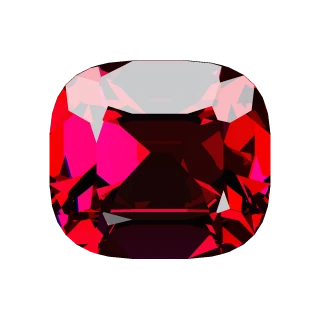
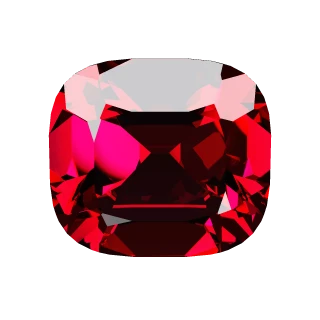
宝石の絵：ファイアを波長ごとに計算し、ダイヤの白飛び・アレキの暗さ・カボションの裏を直す
- 透明な石は R・G・B の 3 本ではなく、波長ごとに 6 本の光線を出す（屈折率はコーシーの式。
  点ごとに波長をずらすので、細かく描くほど色がなめらかにつながる）。
  ファイアが面ごとの単色の塊になっていたのを直すため
- 透明な石は近くから見る向き（PERSP）で描く。面の中で見る向きが変わり、ファイアの中で色が移ろう。
  表の面で跳ね返る光だけは遠くからの向きのまま（テーブルに照明が大きく映り込まないように）
- 分散の強いダイヤとチタナイトは、小さな強い光をさらに小さく鋭くした照明（ENV_SPARK。明るさの合計は同じ）。
  ほかの石は今までの照明のまま
- ダイヤ：明るさ 1.05 → 0.6・ファイア 0.7 → 2 にして白飛びを抑え、白と黒の差とファイアが見えるように
- アレキサンドライト：横向きの色（多色性）で緑が吸われて真っ黒に見えていたので外し、色を少し澄ませた
- カボションを裏から見ると何も描かれなかったので、平らな底の面を描く。オパールの遊色は裏からも光る
- 鑑賞モードの明るさの下限を 0.3 に（ダイヤの初期値が 0.6 のため）
- 宝石のアイコンを書き出し直した（透明な石。カボションと不透明な石は変わらない）
- SW の版数を v138 に

Claude-Session: https://claude.ai/code/session_01TxinNWcW1GdX7YjeGdTSna

Changed region(s): [[0.125, 0.1562, 0.875, 0.8125]]

diff --git a/js/gem-gl.js b/js/gem-gl.js
@@ -10,16 +10,16 @@
 // 見た目の数値。mode：trace（透明）・cab（カボション）・facet（不透明なカット面）・tumble（丸く磨いた石）
 // t：長さ 1 進んだときに残る光の割合（RGB）、d：濃さ、pleo：横向きに進むときの色（多色性）、bi：バイカラーのもう一方の色
 // fog・fogD：乳白（中で散る光の色と濃さ）、kind：シェーダーの石の番号、ri：屈折率（不透明な石）
-// exp・fire：その石だけの明るさ・ファイア（省くと 1.2・1.6）、spin0：置く向き（度。旧アイコンの向きに合わせる）
+// exp・fire：その石だけの明るさ・ファイア（省くと 1.2・1.6）、spin0：置く向き（度。旧アイコンの向きに合わせる）、spark：小さく鋭い照明（分散の強い石）
 const T = (cut, ior, disp, t, d, ex) => ({ mode: 'trace', cut, ior, disp, t, d, ...ex });
 const C = (cut, kind, ri) => ({ mode: 'cab', cut, kind, ri });
 export const GEM_LOOK = {
-  diamond: T('brilliant', 2.42, 0.044, [0.98, 0.985, 1.0], 1, { exp: 1.05, fire: 0.7 }),
+  diamond: T('brilliant', 2.42, 0.044, [0.98, 0.985, 1.0], 1, { exp: 0.6, fire: 2, spark: true }),
   topaz: T('brilliant', 1.62, 0.014, [1.0, 0.7, 0.12], 1.0),
   ruby: T('oval', 1.77, 0.018, [0.95, 0.07, 0.2], 1.2),
   sapphire: T('oval', 1.77, 0.018, [0.12, 0.25, 0.95], 1.2),
   garnet: T('cushion', 1.76, 0.027, [0.82, 0.04, 0.16], 1.25),
-  alexandrite: T('cushion', 1.75, 0.015, [0.12, 0.66, 0.42], 1.5, { pleo: [0.72, 0.16, 0.32] }),
+  alexandrite: T('cushion', 1.75, 0.015, [0.2, 0.86, 0.6], 0.9, { exp: 1.5 }),
   redberyl: T('cushion', 1.57, 0.014, [0.95, 0.12, 0.4], 1.0),
   emerald: T('step', 1.58, 0.014, [0.1, 0.8, 0.38], 1.1),
   aquamarine: T('step', 1.58, 0.014, [0.55, 0.95, 0.97], 1.0),
@@ -28,7 +28,7 @@ export const GEM_LOOK = {
   iolite: T('pear', 1.54, 0.017, [0.32, 0.24, 0.95], 1.7, { pleo: [0.55, 0.48, 0.85], spin0: 180 }),
   kyanite: T('baguette', 1.72, 0.02, [0.12, 0.32, 0.95], 1.1),
   tourmaline: T('baguette', 1.63, 0.017, [1.0, 0.3, 0.58], 1.0, { bi: [0.25, 0.85, 0.4] }),
-  titanite: T('trillion', 1.95, 0.051, [0.8, 0.88, 0.2], 0.9, { spin0: 180 }),
+  titanite: T('trillion', 1.95, 0.051, [0.8, 0.88, 0.2], 0.9, { spin0: 180, spark: true }),
   milkyquartz: T('point', 1.544, 0.013, [0.97, 0.965, 0.99], 0.4, { fogD: 3.4, fog: [0.92, 0.9, 1.05], spin0: -22 }),
   opal: C('cabOval', 0, 1.45),
   moonstone: C('cabOval', 1, 1.52),
@@ -49,6 +49,10 @@ const MODE = { trace: 0, cab: 1, facet: 2, tumble: 3 };
 // 画面の端から端までの広さ（宝石の半径が 1）。アイコンと、その場で描く宝石で同じにする
 const SPAN = 1.36;
 const GLINT = 0.6;
+// 透明な石の光線を出す波長の数（多いほどファイアの色がなめらかにつながる）
+const NW = 6;
+// 透明な石を見る近さ（目までの距離の逆数。宝石の半径が 1）
+const PERSP = 0.12;
 
 // 書き出した画像の場所
 export const gemImage = (id) => `img/gems/${id}.webp`;
@@ -156,6 +160,8 @@ function lightsOf(list, soft) {
 }
 const ring = (n, el, r, I, off = 0) => Array.from({ length: n }, (_, i) => ({ az: off + (i * 360) / n, el, r, I }));
 const ENV_FACET = { L: lightsOf([...ring(6, 42, 13, 5, 15), ...ring(12, 68, 2.6, 30, 7), ...ring(4, 18, 9, 3, 40)], 1.3), sky0: 0.016, sky1: 0.04, floor: 0.035, head: 16 };
+// 分散の強い石（spark）：小さな強い光をもっと小さく鋭くする（明るさの合計は同じ）。光が波長ごとに分かれて、ファイアが虹色に見える
+const ENV_SPARK = { ...ENV_FACET, L: lightsOf([...ring(6, 42, 13, 5, 15), ...ring(12, 68, 0.6, 565, 7), ...ring(4, 18, 9, 3, 40)], 1.3) };
 const ENV_CAB = { L: lightsOf([{ az: 135, el: 50, r: 15, I: 5.5 }, { az: 35, el: 36, r: 9, I: 3 }, { az: 250, el: 28, r: 8, I: 2.4 }, { az: 200, el: 18, r: 10, I: 1.2 }], 1.7), sky0: 0.03, sky1: 0.08, floor: 0.015, head: 8 };
 
 // ---------------------------------------------------------------- シェーダー
@@ -167,6 +173,7 @@ out vec4 o;
 uniform vec2 uRes; uniform float uSpan, uExp; uniform mat3 uR; uniform int uMode, uKind, uSS;
 uniform vec4 uP[112]; uniform int uN;
 uniform vec3 uIor, uSig, uSig2, uPleo; uniform float uPleoOn, uBiOn, uBiAt;
+uniform vec2 uCau; uniform int uNW; uniform float uPersp;
 uniform vec3 uAbc; uniform float uFogD; uniform vec3 uFogL;
 uniform vec4 uL[24]; uniform vec2 uLc[24]; uniform int uNL; uniform vec4 uEnv; uniform vec2 uHead;
 
@@ -196,42 +203,47 @@ vec3 vor3(vec3 x){ vec3 i = floor(x); float d1 = 9., d2 = 9., id = 0.;
   return vec3(d1, d2, id); }
 vec3 spectral(float h){ h = fract(h); return clamp(vec3(abs(h * 6. - 3.) - 1., 2. - abs(h * 6. - 2.), 2. - abs(h * 6. - 4.)), 0., 1.); }
 
-// 1 つの色の成分の光線：外から入り、中で反射を繰り返して、出た光を足す
-float trace(vec3 ro, vec3 rd, float ior, float sig, float sig2, float pleo, float fogL, out bool hit){
+// 1 つの波長の光線：外から入り、中で反射を繰り返して、出た光を足す（色の吸収は RGB でまとめて計算する）
+vec3 trace(vec3 ro, vec3 rd, vec3 rr, float ior, out bool hit){
   float tin = -1e9, tout = 1e9; int ni = -1;
   for (int i = 0; i < 112; i++) { if (i >= uN) break; vec4 p = uP[i]; float dn = dot(p.xyz, rd), dist = p.w - dot(p.xyz, ro);
-    if (abs(dn) < 1e-9) { if (dist < 0.) { hit = false; return 0.; } continue; }
+    if (abs(dn) < 1e-9) { if (dist < 0.) { hit = false; return vec3(0); } continue; }
     float t = dist / dn; if (dn < 0.) { if (t > tin) { tin = t; ni = i; } } else tout = min(tout, t); }
-  if (tin > tout || ni < 0) { hit = false; return 0.; }
+  if (tin > tout || ni < 0) { hit = false; return vec3(0); }
   hit = true;
   vec3 p = ro + rd * tin, n = uP[ni].xyz; float ci = -dot(n, rd), F = fres(ci, ior);
-  float outv = F * env(uR * (rd + 2. * ci * n));
+  vec3 outv = vec3(F * env(uR * (rr + 2. * dot(-n, rr) * n)));
   float k = 1. / ior, ct = sqrt(max(0., 1. - k * k * (1. - ci * ci)));
-  vec3 v = k * rd + (k * ci - ct) * n; float T = 1. - F;
+  vec3 v = k * rd + (k * ci - ct) * n; vec3 T = vec3(1. - F);
   for (int b = 0; b < 8; b++) {
-    if (T < .004) break;
+    if (max(T.x, max(T.y, T.z)) < .004) break;
     float tm = 1e9; int ei = -1;
     for (int i = 0; i < 112; i++) { if (i >= uN) break; vec4 q = uP[i]; float dn = dot(q.xyz, v); if (dn <= 1e-9) continue; float t = (q.w - dot(q.xyz, p)) / dn; if (t < tm) { tm = t; ei = i; } }
     if (ei < 0) break;
-    float s = sig;
-    if (uPleoOn > 0.) { float w = abs(v.z); s = sig * w + pleo * (1. - w); }
-    if (uBiOn > 0.) { vec3 m = p + v * tm * .5; s = mix(sig, sig2, clamp((m.x - uBiAt) / .18 + .5, 0., 1.)); }
+    vec3 s = uSig;
+    if (uPleoOn > 0.) { float w = abs(v.z); s = uSig * w + uPleo * (1. - w); }
+    if (uBiOn > 0.) { vec3 m = p + v * tm * .5; s = mix(uSig, uSig2, clamp((m.x - uBiAt) / .18 + .5, 0., 1.)); }
     // 乳白：中の細かな粒で光が散る（根元ほど濃く、先は澄む）。散った光は上からの照明で少し明るい
-    if (uFogD > 0.) { vec3 m = p + v * tm * .5; float tr = exp(-uFogD * mix(1., .25, smoothstep(-.7, .95, m.y)) * (.55 + 1.1 * vnoise3(m * 3.2 + 5.)) * tm); outv += T * (1. - tr) * fogL * (.7 + .3 * (uR * m).y); T *= tr; }
+    if (uFogD > 0.) { vec3 m = p + v * tm * .5; float tr = exp(-uFogD * mix(1., .25, smoothstep(-.7, .95, m.y)) * (.55 + 1.1 * vnoise3(m * 3.2 + 5.)) * tm); outv += T * (1. - tr) * uFogL * (.7 + .3 * (uR * m).y); T *= tr; }
     T *= exp(-s * tm); p += v * tm; n = uP[ei].xyz; ci = dot(n, v); F = fres(ci, 1. / ior);
     if (F < 1.) { k = ior; ct = sqrt(max(0., 1. - k * k * (1. - ci * ci))); outv += T * (1. - F) * env(uR * (k * v + (ct - k * ci) * n)); T *= F; }
     v -= 2. * ci * n; p -= n * 1e-5;
   }
   return outv + T * .02;
 }
+// 波長（0＝赤の端 700nm 〜 1＝紫の端 400nm）の色の重み（RGB）。足した重みで割って、全部の波長で白になるようにする
+vec3 wlRGB(float s){
+  float l = 700. - 300. * s;
+  return vec3(exp(-pow((l - 600.) / 42., 2.)) + .3 * exp(-pow((l - 425.) / 22., 2.)), exp(-pow((l - 545.) / 45., 2.)), exp(-pow((l - 452.) / 30., 2.)));
+}
 
 // 中の層（向き m、物体の座標）が照明を返す強さ。光の向きと見る向きの中間が m に近いほど強い。
-// 画面の座標で比べるので、石が傾くと光る場所と色が変わる。al は向きの合い具合（重み付きの平均）
+// 画面の座標で比べるので、石が傾くと光る場所と色が変わる。層は表と裏のどちらからも光を返す（裏から見たとき）。al は向きの合い具合（重み付きの平均）
 float layerFlash(vec3 m, float k, out float al){
   vec3 mw = normalize(uR * m); float s = 0., ws = 0., as = 0.;
   for (int i = 0; i < 24; i++) {
     if (i >= uNL) break;
-    float c = max(dot(normalize(uL[i].xyz + vec3(0, 0, 1)), mw), 0.), w = uL[i].w * (1. - uLc[i].x);
+    float c = abs(dot(normalize(uL[i].xyz + vec3(0, 0, 1)), mw)), w = uL[i].w * (1. - uLc[i].x);
     s += w * pow(c, k); ws += w; as += w * c;
   }
   al = as / max(ws, 1e-4);
@@ -323,8 +335,15 @@ vec4 cab(vec3 ro, vec3 rd){
   vec3 a2 = uAbc * uAbc;
   float qa = dot(rd * rd, 1. / a2), qb = 2. * dot(ro * rd, 1. / a2), qc = dot(ro * ro, 1. / a2) - 1.;
   float disc = qb * qb - 4. * qa * qc; if (disc < 0.) return vec4(0);
-  float t = (-qb - sqrt(disc)) / (2. * qa); vec3 h = ro + rd * t; if (h.z < 0.) return vec4(0);
-  vec3 n = normalize(h / a2); float cv = -dot(n, rd); vec3 r = rd + 2. * cv * n;
+  float t = (-qb - sqrt(disc)) / (2. * qa); vec3 h = ro + rd * t, n;
+  if (h.z < 0.) {
+    // 裏から見たとき：平らに磨いた底の面
+    if (rd.z <= 0.) return vec4(0);
+    h = ro + rd * (-ro.z / rd.z);
+    if (dot(h.xy * h.xy, 1. / a2.xy) > 1.) return vec4(0);
+    n = vec3(0, 0, -1);
+  } else n = normalize(h / a2);
+  float cv = -dot(n, rd); vec3 r = rd + 2. * cv * n;
   vec3 alb, emit; float tr; stone(h.xy, n, r, alb, emit, tr);
   float F = .04 + .96 * pow(1. - clamp(cv, 0., 1.), 5.);
   float spec = env(uR * r), E = irr(uR * n);
@@ -421,9 +440,22 @@ void main(){
     vec3 ro = Rt * vec3(uv, 10.), rd = Rt * vec3(0, 0, -1);
     vec3 c; bool hit;
     if (uMode == 0) {
-      c.r = trace(ro, rd, uIor.x, uSig.x, uSig2.x, uPleo.x, uFogL.x, hit); if (!hit) continue;
-      c.g = trace(ro, rd, uIor.y, uSig.y, uSig2.y, uPleo.y, uFogL.y, hit);
-      c.b = trace(ro, rd, uIor.z, uSig.z, uSig2.z, uPleo.z, uFogL.z, hit);
+      // 透明な石は近くから見る（目の位置から広がる光線）。面ごとに見る向きが少しずつ変わり、ファイアの中で色が移ろう
+      // 表の面で跳ね返る光だけは、遠くから見た向きで求める（テーブルに照明が大きく映り込まないように）
+      vec3 rr = rd;
+      if (uPersp > 0.) { ro = Rt * vec3(0, 0, 1. / uPersp); rd = Rt * normalize(vec3(uv * uPersp, -1.)); }
+      // 波長ごとに屈折率が少し違う（コーシーの式）ので、出ていく向きがずれて虹色に分かれる（ファイア）。
+      // 点ごとに波長を少しずらして、細かく描くほど色がなめらかにつながる
+      c = vec3(0); vec3 ws = vec3(0); float j = (float(sy * uSS + sx) + .5) / float(uSS * uSS);
+      for (int w = 0; w < 16; w++) {
+        if (w >= uNW) break;
+        float s = (float(w) + j) / float(uNW), lm = (700. - 300. * s) * .001;
+        vec3 wc = wlRGB(s);
+        c += trace(ro, rd, rr, uCau.x + uCau.y / (lm * lm), hit) * wc; ws += wc;
+        if (!hit) break;
+      }
+      if (!hit) continue;
+      c /= ws;
     } else { vec4 r = uMode == 1 ? cab(ro, rd) : uMode == 2 ? facet(ro, rd) : tumble(ro, rd); if (r.a < .5) continue; c = r.rgb; }
     acc += srgb(aces(c * uExp)); cov += 1.;
   }
@@ -458,7 +490,7 @@ void main(){
 }`;
 
 // ---------------------------------------------------------------- 描く道具（キャンバス 1 枚に 1 つ）
-const UNIFORMS = ['uRes', 'uSpan', 'uExp', 'uR', 'uMode', 'uKind', 'uSS', 'uP', 'uN', 'uIor', 'uSig', 'uSig2', 'uPleo', 'uPleoOn', 'uBiOn', 'uBiAt', 'uAbc', 'uL', 'uLc', 'uNL', 'uEnv', 'uHead', 'uFogD', 'uFogL'];
+const UNIFORMS = ['uRes', 'uSpan', 'uExp', 'uR', 'uMode', 'uKind', 'uSS', 'uP', 'uN', 'uIor', 'uCau', 'uNW', 'uPersp', 'uSig', 'uSig2', 'uPleo', 'uPleoOn', 'uBiOn', 'uBiAt', 'uAbc', 'uL', 'uLc', 'uNL', 'uEnv', 'uHead', 'uFogD', 'uFogL'];
 
 function createRenderer(canvas) {
   const gl = canvas.getContext('webgl2', { premultipliedAlpha: true, antialias: false, alpha: true, depth: false, stencil: false, powerPreference: 'low-power' });
@@ -502,7 +534,7 @@ function createRenderer(canvas) {
   const load = (id) => {
     const g = GEM_LOOK[id] || GEM_LOOK.ruby;
     gl.useProgram(prog);
-    const E = g.mode === 'cab' || g.mode === 'tumble' ? ENV_CAB : ENV_FACET;
+    const E = g.mode === 'cab' || g.mode === 'tumble' ? ENV_CAB : g.spark ? ENV_SPARK : ENV_FACET;
     const L = new Float32Array(24 * 4), Lc = new Float32Array(24 * 2);
     E.L.forEach((l, i) => { L.set([...l.dir, l.I], i * 4); Lc.set([l.c0, l.c1], i * 2); });
     gl.uniform4fv(uni.uL, L);
@@ -529,8 +561,7 @@ function createRenderer(canvas) {
       gl.uniform1f(uni.uBiAt, 0.25);
       gl.uniform3fv(uni.uPleo, g.pleo ? sigmaOf(g.pleo, g.d) : s);
       gl.uniform1f(uni.uPleoOn, g.pleo ? 1 : 0);
-      const d = g.disp * (g.fire == null ? 1.6 : g.fire);
-      gl.uniform3f(uni.uIor, g.ior - d * 0.42, g.ior, g.ior + d * 0.58);
+      gl.uniform2fv(uni.uCau, cauchy(g, g.fire == null ? 1.6 : g.fire));
     } else {
       gl.uniform3fv(uni.uAbc, g.cut === 'cab' ? [0.92, 0.92, 0.62] : [1.0, 0.76, 0.62]);
       gl.uniform3f(uni.uIor, g.ri, g.ri, g.ri);
@@ -564,8 +595,9 @@ function createRenderer(canvas) {
     const glint = o && o.glint != null ? o.glint : GLINT;
     gl.useProgram(prog);
     if (clear) {
-      const d = g.disp * (o && o.fire != null ? o.fire : g.fire == null ? 1.6 : g.fire);
-      gl.uniform3f(uni.uIor, g.ior - d * 0.42, g.ior, g.ior + d * 0.58);
+      gl.uniform2fv(uni.uCau, cauchy(g, o && o.fire != null ? o.fire : g.fire == null ? 1.6 : g.fire));
+      gl.uniform1i(uni.uNW, o && o.nw ? o.nw : NW);
+      gl.uniform1f(uni.uPersp, o && o.persp != null ? o.persp : PERSP);
     }
     gl.bindFramebuffer(gl.FRAMEBUFFER, fbo);
     gl.viewport(0, 0, W, H);
@@ -593,6 +625,13 @@ function createRenderer(canvas) {
     gl.drawArrays(gl.TRIANGLES, 0, 3);
   };
   return { gl, load, draw };
+}
+
+// 屈折率の波長による違い（コーシーの式 n = A + B / λ²、λ は µm）。disp は B 線（686.7nm）と G 線（430.8nm）の差で、
+// それに fire を掛けて強める。ior は黄の光（589nm）あたりの値
+function cauchy(g, fire) {
+  const d = g.disp * fire, B = d / (1 / 0.4308 ** 2 - 1 / 0.6867 ** 2);
+  return [g.ior - B / 0.589 ** 2, B];
 }
 
 // 縦軸まわりに spin、そのあと手前へ tilt（物体 → 画面）。列優先で渡す
@@ -722,14 +761,15 @@ export const liveGemOk = () => !broken;
 
 // ---------------------------------------------------------------- 画像の書き出し（tools/gem-bake.html から使う）
 let baker = null;
-export function bakeGem(id, size, rockT = 0, rockS = 0) {
+// o は draw と同じ（確かめるための比べる画像用。省くとアイコンと同じ）
+export function bakeGem(id, size, rockT = 0, rockS = 0, o = null) {
   if (!baker) {
     const canvas = document.createElement('canvas');
     baker = createRenderer(canvas);
     baker.canvas = canvas;
   }
   baker.load(id);
-  baker.draw(size * 2, rockT, rockS, 2);
+  baker.draw(size * 2, rockT, rockS, 2, o);
   const c = document.createElement('canvas');
   c.width = c.height = size;
   const x = c.getContext('2d');

diff --git a/sw.js b/sw.js
@@ -1,5 +1,5 @@
 // オフラインでも あそべるように キャッシュする
-const CACHE = 'jewel-survivor-v137';
+const CACHE = 'jewel-survivor-v138';
 const ASSETS = [
   './', './index.html', './css/style.css', './manifest.webmanifest',
   './js/main.js', './js/game.js', './js/weapons.js', './js/data.js', './js/render.js', './js/fx.js',

diff --git a/js/gem-view.js b/js/gem-view.js
@@ -18,7 +18,7 @@ const clamp = (v, a, b) => Math.max(a, Math.min(b, v));
 
 // スライダー：[キー, 名前, 最小, 最大, 刻み]
 const SLIDERS = [
-  ['exp', '明るさ', 0.5, 2.2, 0.05],
+  ['exp', '明るさ', 0.3, 2.2, 0.05],
   ['fire', 'ファイア', 0, 4, 0.1],
   ['glint', 'きらめき', 0, 1.5, 0.05],
 ];

diff --git a/CLAUDE.md b/CLAUDE.md
@@ -47,7 +47,7 @@
 - 大きい背景の光（.rays）を入れるスクロールする画面は `.rays-clip` で包む（スクロールの範囲が光の分だけ広がるため）。はみ出しうる画面の中央寄せは前後の余白 auto で行う（justify-content: center だと上側に届かない）。
 - コイン報酬のアイコンは coinIcon。ユーザーランクは称号の素材の見た目（`.rk-mat` ＋ `.rk-acrylic` / `.rk-glass` / `.rk-crystal`。タイトル左上のチップ・詳細の板・称号の段で共通）。
 - ステージのカード（ステージ選択・図鑑）の背景は scene-art.js の風景（`has-scene` と `--scene`。ui.js の paintScenes が、描き済みはすぐ、まだのものは 1 枚ずつ間をあけて描いて貼る）。カードを選んだときは作り直さず選択の枠だけ付け替える（markSel。作り直すと風景がちらつく）。
-- 宝石の絵は光線追跡（gem-gl.js。カットを平面の集合で作り、屈折・全反射・分散・吸収を計算する。不透明な石はカボション・カット面・丸く磨いた石の描き方。オパールの遊色とラブラドライトのひらめきは、中の層の向きと照明・見る向きから計算する layerFlash で、傾けると光る場所と色が変わる）。アイコン（gemIcon）は書き出した画像 `img/gems/<id>.webp` を返す。ホーム・ジュエル選択・コレクションの宝石のカード（持っている宝石）・オークションの競りと落札の画面（宝石の品）の宝石は mountLiveGem でその場で描く（画像の横にキャンバスを置いて入れ替える。キャンバスと WebGL はアプリで 1 つを使い回し、画像が画面から外れると止まる。WebGL が使えないときは画像のまま）。ゲーム中の弾などの小さな宝石は gem-art.js の絵（gemSprite）。見た目を変えたら tools/test/gem-bake.js で書き出し直して画像もコミットする。
+- 宝石の絵は光線追跡（gem-gl.js。カットを平面の集合で作り、屈折・全反射・分散・吸収を計算する。透明な石は波長ごとに `NW` 本の光線を出し（屈折率はコーシーの式。点ごとに波長をずらすので、細かく描くほどファイアの色がなめらかにつながる。NW を増やすとその分重い）、近くから見る向き（`PERSP`。面の中で見る向きが変わり、ファイアの中で色が移ろう。表の面で跳ね返る光だけは遠くからの向き）で描く。分散の強い石（GEM_LOOK の `spark`）は小さく鋭い照明（`ENV_SPARK`）。不透明な石はカボション（裏から見ると平らな底の面）・カット面・丸く磨いた石の描き方。オパールの遊色とラブラドライトのひらめきは、中の層の向きと照明・見る向きから計算する layerFlash で、傾けると光る場所と色が変わる）。アイコン（gemIcon）は書き出した画像 `img/gems/<id>.webp` を返す。ホーム・ジュエル選択・コレクションの宝石のカード（持っている宝石）・オークションの競りと落札の画面（宝石の品）の宝石は mountLiveGem でその場で描く（画像の横にキャンバスを置いて入れ替える。キャンバスと WebGL はアプリで 1 つを使い回し、画像が画面から外れると止まる。WebGL が使えないときは画像のまま）。ゲーム中の弾などの小さな宝石は gem-art.js の絵（gemSprite）。見た目を変えたら tools/test/gem-bake.js で書き出し直して画像もコミットする。
 - 鑑賞モード（gem-view.js）：コレクションの宝石の詳細で、持っている宝石の絵（右下の虫眼鏡）を押すと開く。ドラッグで回す（画面の縦軸・横軸まわり。はじくと惰性）・2 本指とホイールで拡大・スライダー（明るさ・ファイア（透明な石だけ）・きらめき）・ゆらす・リセット・背景の白黒。スライダーは保存しない（ユーザーの希望）。背景の白黒だけアプリを閉じるまで覚える。描画は mountLiveGem に `ctl` を渡して同じキャンバスと WebGL を借りる（ctl.frame が描く値を返し、動いていないあいだは描かず、止まった直後に 1 度だけ細かく描く）。draw の最後の引数 `o` を省いたときの見た目（アイコン・その場で描く宝石）は変えない。白い背景では仕上げのシェーダーの `uLight` で石の外のにじみを足さない（灰色の輪になるため）。閉じたら下のカードの宝石に mountLiveGem し直す。
 - ジュエル選択の宝石は額装（case-art.js。奥のベルベット `showcaseBack` は宝石の色の彩度を大きく落としてうっすら乗せる、手前の枠 `showcaseFront` は共通の 1 枚。宝石は gemIcon の img を間に置き、影の位置は `CASE_GEM` と CSS の `.sc-gem` で合わせる）。
 - 実績はメダル（ui.js の medalTier で報酬から 銅・銀・金・虹、`.medal`）。図鑑の敵はモンスターカード（`.mon`。未遭遇はシルエット、ボスは金の額縁）、武器・チャームは属性の色の縁取り（`.gemcard`）。
@@ -286,7 +286,7 @@
 ## 6. リリース手順
 
 1. 作業ブランチはセッションで指定されたもの。main に取り込むときに origin/main から作り直すので、先に `git status` で未コミットの新規ファイルを確認する。
-2. sw.js の `CACHE` の版数を 1 つ上げる（現在 `jewel-survivor-v137`）。新しいファイルは `ASSETS` にも足す。
+2. sw.js の `CACHE` の版数を 1 つ上げる（現在 `jewel-survivor-v138`）。新しいファイルは `ASSETS` にも足す。
 3. `node --check` と、変えた箇所だけのテスト。
 4. 取り込み：
    ```sh
